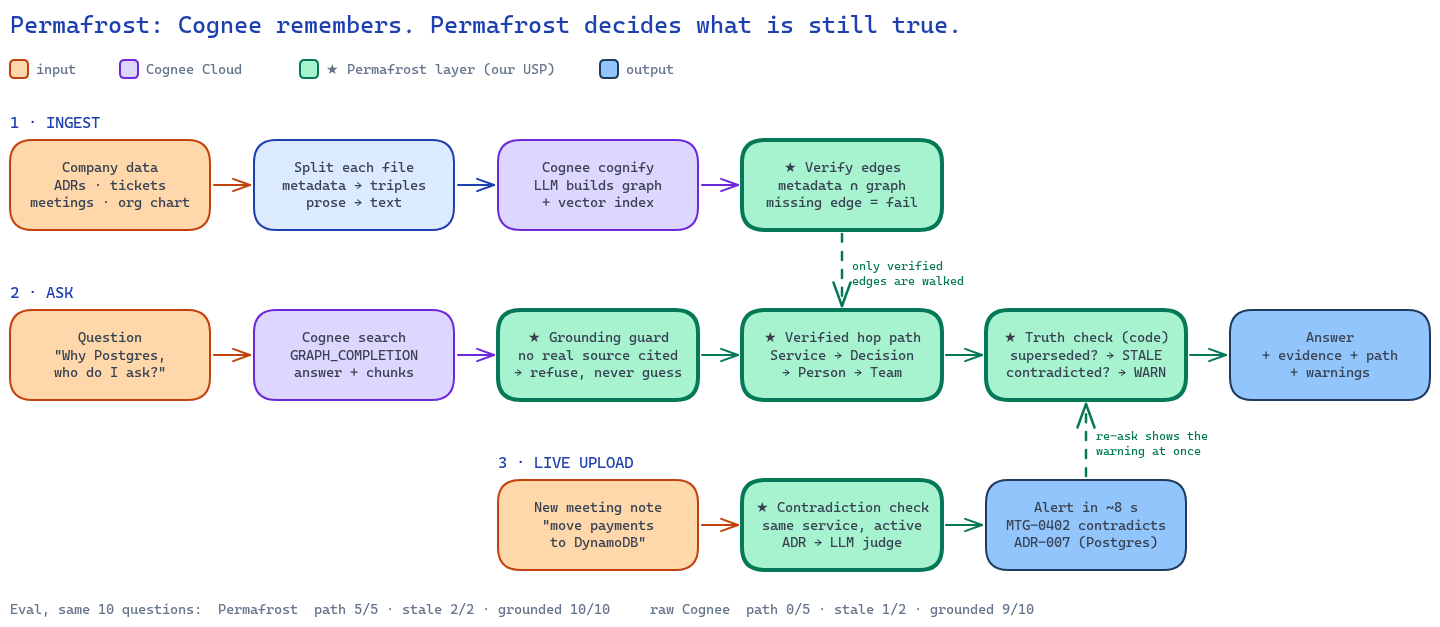
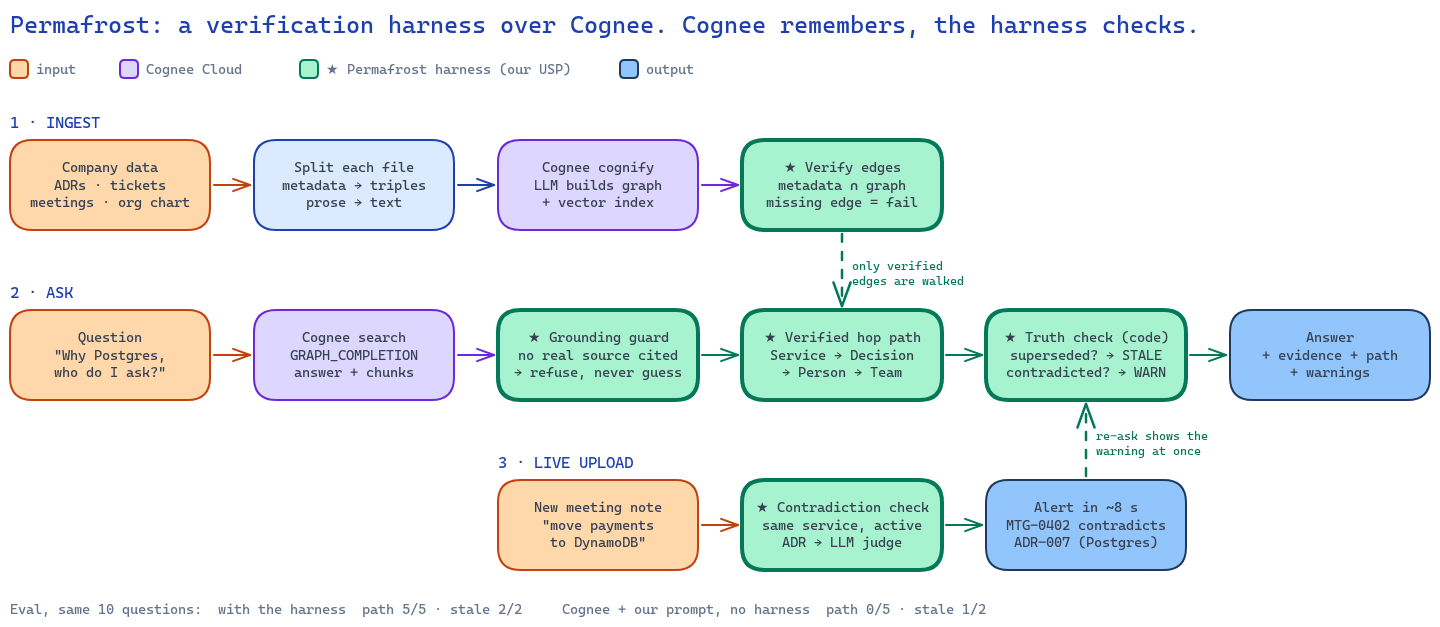
Frame Permafrost as a verification harness over Cognee (README, workflow diagram, landing footer)
Claude-Session: https://claude.ai/code/session_01HLDKgNtn6D5wyKqKf37Ggp

Changed region(s): [[0.125, 0.0303, 0.8438, 0.0606], [0.1562, 0.9697, 0.7188, 1.0], [0.3125, 0.0909, 0.4688, 0.1212]]

diff --git a/frontend/src/app/page.tsx b/frontend/src/app/page.tsx
@@ -408,7 +408,7 @@ export default function Home() {
       </main>
 
       <footer className="mx-auto mt-auto flex w-full max-w-[1200px] flex-col justify-between gap-2 border-t border-zinc-100 dark:border-zinc-800 px-4 py-6 text-[13px] text-zinc-500 dark:text-zinc-400 sm:flex-row sm:px-6">
-        <span>© Permafrost · built on Cognee</span>
+        <span>© Permafrost · a verification harness over Cognee</span>
         <span className="font-mono text-xs">Next.js · FastAPI · Cognee Cloud · SQLite</span>
       </footer>
     </div>

diff --git a/README.md b/README.md
@@ -2,7 +2,7 @@
 
 **Ask why. Get the answer, the evidence, and the path.**
 
-Permafrost is a mini Company Brain built on Cognee. It connects a company's docs, tickets, meeting notes and org chart into one knowledge graph, then answers natural-language questions with cited evidence and a visible multi-hop path.
+Permafrost is a mini Company Brain: a **verification harness over Cognee**. Cognee remembers; Permafrost checks, time-stamps and measures what it remembers. It connects a company's docs, tickets, meeting notes and org chart into one knowledge graph, then answers natural-language questions with cited evidence and a visible multi-hop path.
 
 ## The idea
 
@@ -22,6 +22,20 @@ Keyword search finds the pieces but not the links between them. Chatbots that an
 - **Show** evidence cards, the hop path (`Service → Decision → Meeting → Person → Team`) and warnings when a cited decision has been superseded.
 - **Explore** the graph and the ingested sources directly.
 
+## A harness, not a wrapper
+
+A wrapper forwards calls. A harness constrains, checks and measures the engine inside it, and rejects its output when a check fails.
+
+| Cognee does | The Permafrost harness does |
+|---|---|
+| Chunking, entity extraction (`cognify`) | Verifies every structural edge against source metadata; ingest fails if an expected edge is missing |
+| Graph + vector storage | Drops false LLM edges from paths (seen: "ADR-007 affects svc-reports"); only `metadata ∩ graph` edges are walked |
+| `GRAPH_COMPLETION` retrieval | Refuses answers that cite no retrieved source; reports `unsupported_citations` |
+| Answer generation | Adds what a prompt cannot: the verified hop path, stale and contradiction warnings, the decision timeline, the ranked people to ask |
+| | Measures itself: the same 10 questions against raw Cognee and against Cognee + our prompt ([Eval](#eval)) |
+
+All Cognee traffic goes through one module, `backend/app/cognee_client.py`; everything else in `backend/app/` is the harness. The timeline, contradiction candidates and expert ranking make no Cognee calls at all.
+
 ## Structure from metadata. Meaning from the LLM.
 
 Permafrost does not rely on the LLM to invent the relationships its answers depend on.
@@ -33,7 +47,7 @@ Permafrost does not rely on the LLM to invent the relationships its answers depe
 
 ![Permafrost workflow](docs/workflow.png)
 
-Purple is Cognee; green is Permafrost's own layer. Source: [`docs/workflow.excalidraw`](docs/workflow.excalidraw).
+Purple is Cognee; green is the Permafrost harness. Source: [`docs/workflow.excalidraw`](docs/workflow.excalidraw).
 
 ## Architecture
 
@@ -60,7 +74,7 @@ Prerequisites: Node.js 20+, npm, [uv](https://docs.astral.sh/uv/) and Python 3.1
 ```bash
 bash scripts/init.sh                                   # deps + .env files; then fill COGNEE_* (and LLM_*) in backend/.env
 (cd backend && uv run python -m app.ingest --reset)    # build the graph once (~5 min)
-scripts/dev.sh                                         # backend :8000 + frontend :3000
+bash scripts/dev.sh                                    # backend :8000 + frontend :3000
 ```
 
 Open http://localhost:3000. The API runs on http://localhost:8000, with interactive docs at http://localhost:8000/docs.
@@ -98,8 +112,8 @@ The ablation row keeps us honest: the system prompt alone buys the grounding and
 The 2-minute script is in [`docs/plan.md` §7](docs/plan.md#7-demo-script-2-minutes-judging-round): the showcase question (4-hop path + stale warning), a refusal, dropping `data/live/MTG-0402.md` (contradiction alert in ~8 s), the re-ask with the contradiction warning, then the eval badge.
 
 ```bash
-scripts/restore_demo.sh save   # once, after the final ingest + eval: snapshot app.db
-scripts/restore_demo.sh        # before each run: un-ingest MTG-0402, restore app.db; then restart the backend
+bash scripts/restore_demo.sh save   # once, after the final ingest + eval: snapshot app.db
+bash scripts/restore_demo.sh        # before each run, backend stopped: restore app.db, un-ingest MTG-0402
 ```
 
 If Cognee Cloud is slow or down, a question that was answered before is served from the last answer (flagged `cached: true`); ask one question at a time, since concurrent Cloud searches slow down sharply.
